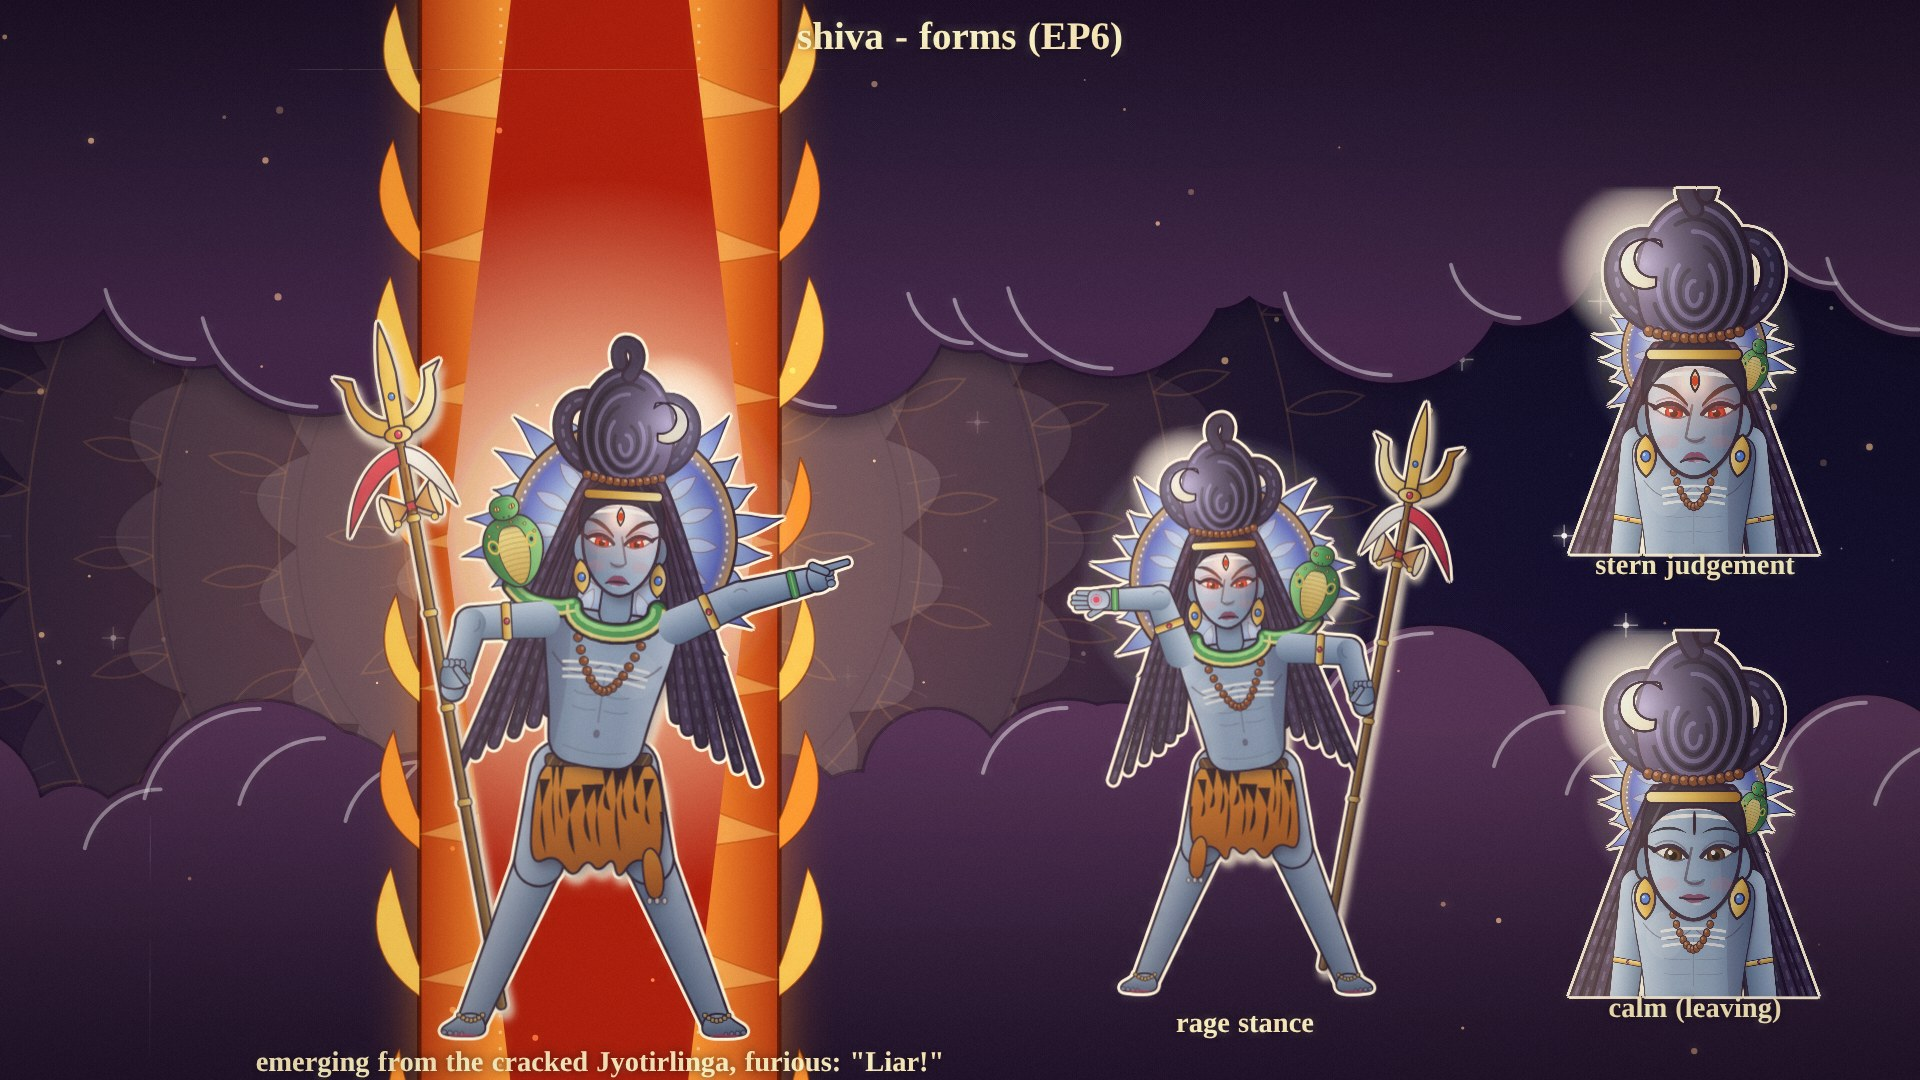
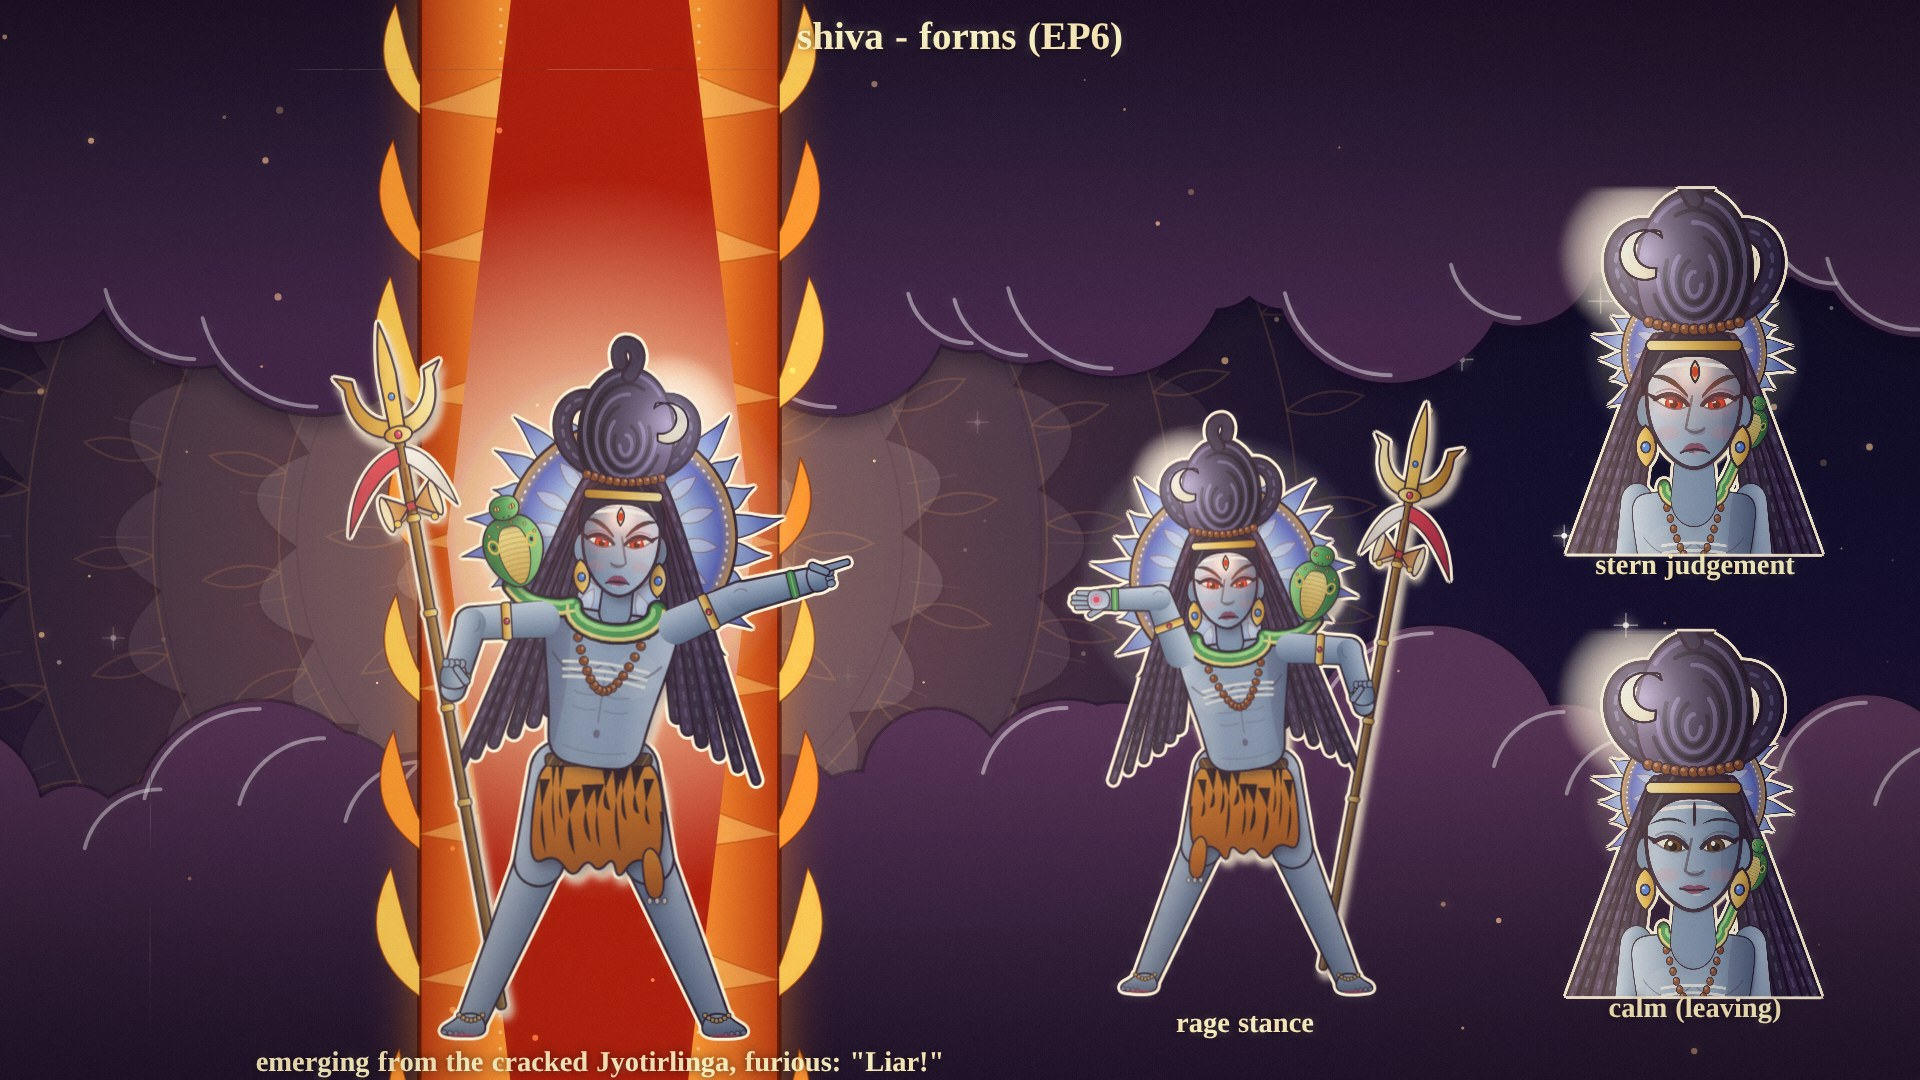
Shiva close-up: visible neck
Claude-Session: https://claude.ai/code/session_01Ec4SCjc7mpKu4xcSrfyjyA

Changed region(s): [[0.8125, 0.1528, 0.9688, 0.5194], [0.8125, 0.5806, 0.9688, 0.9472]]

diff --git a/engine/v2_cast.js b/engine/v2_cast.js
@@ -452,11 +452,11 @@ function bust(c,S,o){const sk=skinPK(S),t=o.t||0,bw=Math.min(S.build||1,1.2);c.s
   c.save();c.translate(0,340);PK.torso(c,sk,262,134*bw,100*bw,0,{fem:!!S.female,muscle:S.muscle});
   const S2=Object.assign({},S);c.scale(1.7,1.7);torsoDress(c,S2,sk,153,72*bw,56*bw,0,t);c.restore();
   if(S.vasuki){const vp=PK.ellPts(0,70,64,30,Math.PI*1.02,-.1,14);for(let i=1;i<=8;i++){const u=i/8;vp.push([64+u*60,70-u*130+Math.sin(u*Math.PI)*10])}PK.tube(c,vp,12,10,VSK,{scales:false,belly:1});PK.hood(c,128,-40,.22+Math.sin(t*1.4)*.1,.68,t,VSK,{ph:2,eye:o.k>.5?'#ff5a3a':'#ffd34a'})}
-  PK.cut(c,PK.P.caps([0,88],[0,40],26,23),S.skinM,{lw:2,sh:0});c.restore()}
+  PK.cut(c,PK.P.caps([0,88],[0,40],26*(o.nk||1),23*(o.nk||1)),S.skinM,{lw:2,sh:0});c.restore()}
 function v2head(who,x,y,s,t,o){ // close-up of the head with neck, shoulders and garments
   const OYH=1300,FR=clamp(s*SC_,2,3.9),RG=[-300,-330,600,640];const c=figBegin(FR,OYH,RG);PK.setDPR(FR);const ex=o.expr||{},kk=ex.brow!=null&&ex.brow<-.2?clamp(-ex.brow*1.1,0,1):0,face=ex.eye!=null&&ex.eye<.5?'closed':'calm';
   if(o.flip<0)c.scale(-1,1);c.scale(1.32,1.32);const M=o.mood,turn=o.tilt?0:.06;
-  if(who==='shiva'){const S=CAST.shiva;c.translate(0,-6);c.scale(.86,.86);PK.halo(c,0,-30,112,t,Object.assign({g:.55,n:26},S.halo));c.save();c.translate(0,62);c.scale(1.95,1.95);hairBack(c,S,{hd:[0,0],ph:[0,200]},t);c.restore();c.save();c.translate(0,38);c.scale(.72,.88);bust(c,S,{t:t,k:kk});c.restore();c.save();c.translate(0,62);c.scale(2.25,2.25);drawHead(c,0,0,{expr:face==='closed'?'closed':'calm',k:kk,S:S,t:t,mood:M,turn:turn});hairFront(c,S,0,0,t);c.restore()}
+  if(who==='shiva'){const S=CAST.shiva;c.translate(0,-6);c.scale(.86,.86);PK.halo(c,0,-30,112,t,Object.assign({g:.55,n:26},S.halo));c.save();c.translate(0,48);c.scale(1.95,1.95);hairBack(c,S,{hd:[0,0],ph:[0,200]},t);c.restore();c.save();c.translate(0,126);c.scale(.72,.88);bust(c,S,{t:t,k:kk,nk:1.9});c.restore();c.save();c.translate(0,48);c.scale(2.25,2.25);drawHead(c,0,0,{expr:face==='closed'?'closed':'calm',k:kk,S:S,t:t,mood:M,turn:turn});hairFront(c,S,0,0,t);c.restore()}
   else if(who==='brahma'){const S=BRAHMA;PK.halo(c,0,-40,108,t,{g:.5,n:26});bust(c,S,{t:t});
     const side=(x2,tn)=>{c.save();c.translate(x2,12);c.scale(.8,.8);c.filter='brightness(.8)';drawHead(c,0,0,{expr:face,k:kk*.8,S:S,t:t+x2*.01,mood:Object.assign({smile:.2},M&&M.sad?{sad:M.sad*.8}:{}),turn:tn});c.save();c.scale(1-Math.abs(tn)*.3,1);PK.hairCap(c,'#e6e0da');PK.jataMukuta(c);c.restore();c.filter='none';c.restore()};
     side(-62,-.6);side(62,.6);drawHead(c,0,0,{expr:face,k:kk,S:S,t:t,mood:M,turn:turn});PK.hairCap(c,'#e6e0da');PK.jataMukuta(c)}
